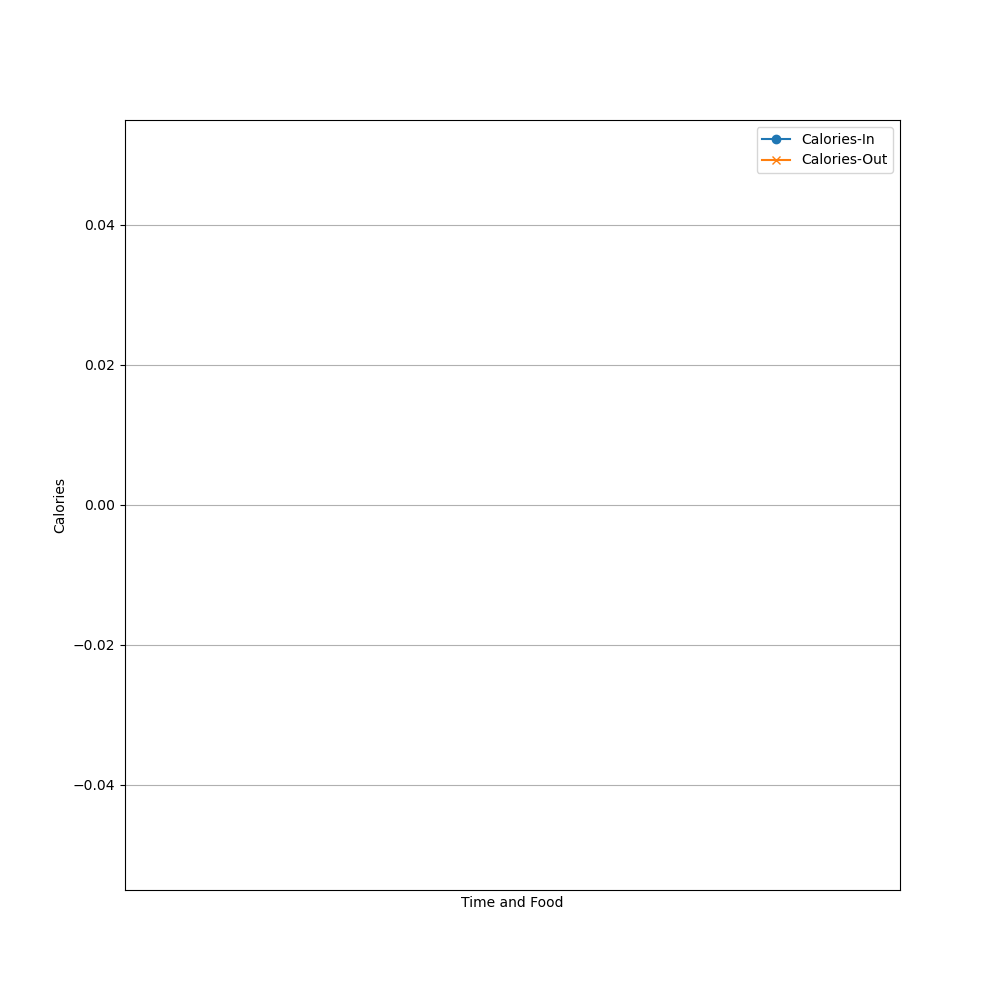
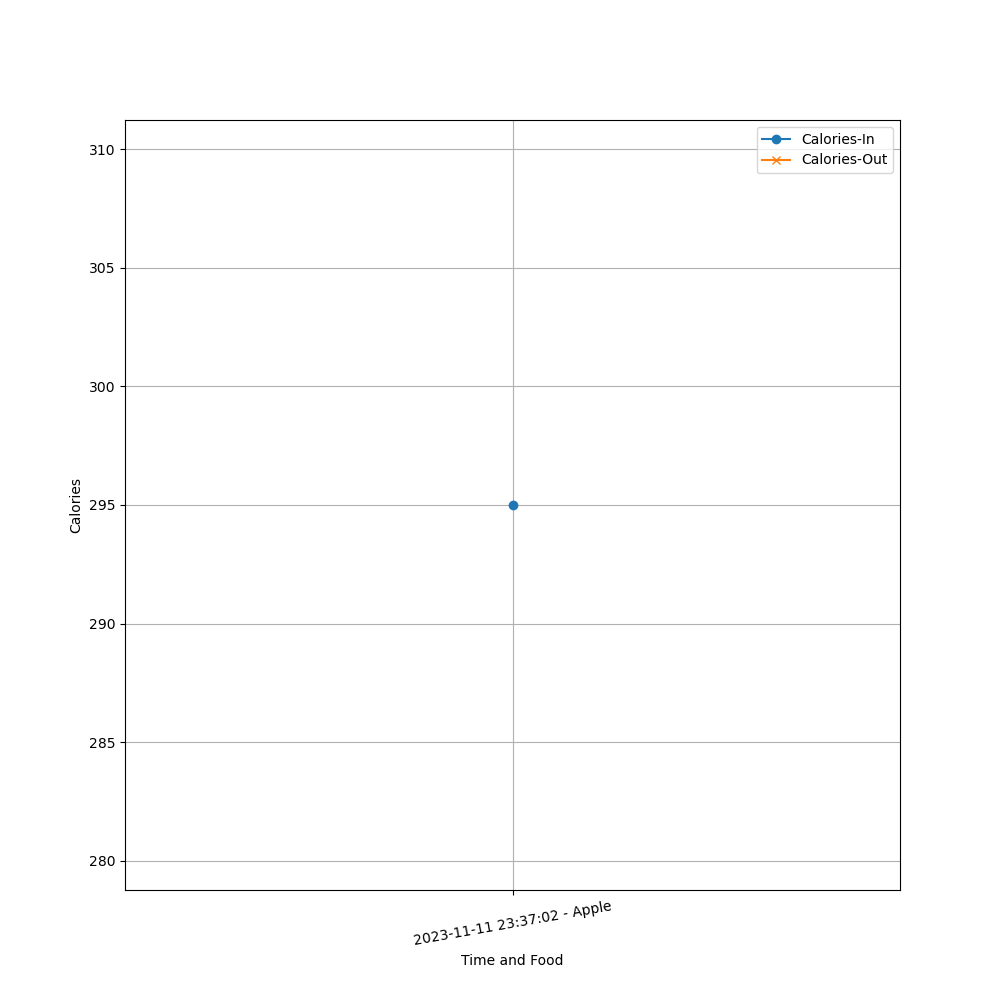
Implemented aggregate function

diff --git a/Server/web_server.py b/Server/web_server.py
@@ -17,6 +17,7 @@ weight = " "
 calories_in = "Then click on the \"Calories-In\" button"
 activity = "Sit, walk, or run with the activity tracker"
 calories_out = "Then click on the \"Calories-Out\" button"
+duration = " "
 net_calories = "Get both Calories-In and Calories-Out first!!"
 
 template_data = {
@@ -25,9 +26,10 @@ template_data = {
     "caloriesIn": calories_in,
     "activity": activity,
     "caloriesOut": calories_out,
+    "duration": duration,
     "netCalories": net_calories
 }
-def updateTemplateData(item, weight, calories_in, activity, calories_out, net_calories):
+def updateTemplateData(item, weight, calories_in, activity, calories_out, duration, net_calories):
     global template_data
     template_data = {
         "food": item,
@@ -35,6 +37,7 @@ def updateTemplateData(item, weight, calories_in, activity, calories_out, net_ca
         "caloriesIn": calories_in,
         "activity": activity,
         "caloriesOut": calories_out,
+        "duration": duration,
         "netCalories": net_calories
     }
 
@@ -61,7 +64,7 @@ def caloriesIn():
             item, weight, calories_in = results
             calories_in_flag = True
         updateNetCalories()
-        updateTemplateData(item, weight, calories_in, activity, calories_out, net_calories)
+        updateTemplateData(item, weight, calories_in, activity, calories_out, duration, net_calories)
         #insert into db
         database_utility.insertCaloriesIn(calories_in, item)
         #update graph
@@ -80,19 +83,20 @@ def revertCaloriesIn():
 @app.route('/Calories_Out')
 def caloriesOut():
     try:
-        results = calculate_calories_burned(coVariables.real_time_accelerometer_data)
-        if results is not None:
-            global item, weight, calories_in, calories_in_flag
-            item, weight, calories_in = results
-            calories_in_flag = True
+        # results = calculate_calories_burned(coVariables.real_time_accelerometer_data)
+        # if results is not None:
+        #     global item, weight, calories_in, calories_in_flag
+        #     item, weight, calories_in = results
+        #     calories_in_flag = True
 
         #test codes
-        # global calories_out_flag, calories_out
-        # calories_out = 20
-        # calories_out_flag = True
+        global calories_out_flag, calories_out
+        calories_out = 400
+        duration = 100
+        calories_out_flag = True
 
         updateNetCalories()
-        updateTemplateData(item, weight, calories_in, activity, calories_out, net_calories)
+        updateTemplateData(item, weight, calories_in, activity, calories_out, duration, net_calories)
 
         # #insert into db
         # database_utility.insertCaloriesIn(calories_in, item)

diff --git a/Server/aggregate.py b/Server/aggregate.py
@@ -4,15 +4,13 @@ def inform(net_calories):
     if abs(net_calories) < 100:
         return str(net_calories) + " Calories\n\nGood job at balancing your Calories, keep it up!"
     elif net_calories > 100:
-        run = str(calculateRun())
-        return str(net_calories) + " Calories\n\nYou are consuming more than you are burning. You could run for " + run + "mins to burn off the excess Calories."
+        return str(net_calories) + " Calories\n\nYou are consuming more than you are burning. You could run for " + str(calculateRun(net_calories)) + " minutes to burn off the excess Calories."
     elif net_calories < (-100):
-        reward = str(calculateReward())
-        return str(net_calories) + " Calories\n\nGood job at burning off excess Calories! You can rewards yourself with " + reward + "g of apple without worrying:))"
+        return str(net_calories) + " Calories\n\nGood job at burning off excess Calories! You can rewards yourself with " + str(calculateReward(net_calories)) + "g of apple without worrying:))"
     
 def calculateReward(net_calories):
-    ciVariables.calories_table["apple"]
-    return
+     return int(-(net_calories) / (ciVariables.calories_table["Apple"] / 100))
 
 def calculateRun(net_calories):
-    return
+    return int(net_calories / ((7.5 * 3.5 * 65) / 200))
+    
